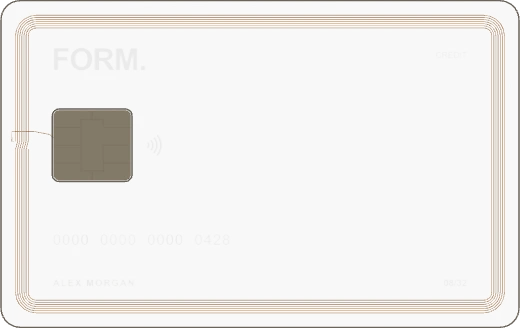
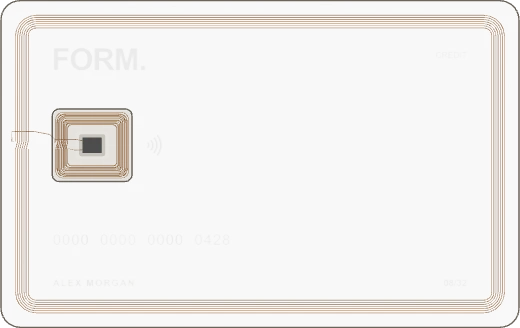
ui: trim reading holds and clarify the card x-ray

Changed region(s): [[0.0923, 0.3354, 0.2769, 0.5488]]

diff --git a/src/experience/main.js b/src/experience/main.js
@@ -106,23 +106,20 @@ function paintLetters(time, visual, mouth) {
 }
 
 function paintLabels(pose, opacity) {
-  const { height, gutter, compact } = layout;
+  if (opacity <= .001) {
+    for (const label of labels) label.style.opacity = 0;
+    return [];
+  }
+  const antenna = fromCard(pose, -.017, .0246, .0001);
+  const chip = fromCard(pose, -.02774, .0031, .0001);
   const entries = [
-    {
-      x: compact ? gutter : pose.x - pose.width * .43,
-      y: Math.max(height * .098, pose.y - pose.width * .35 - 30),
-      part: fromCard(pose, -.034, .0215, .0003),
-    },
-    {
-      x: gutter,
-      y: compact ? pose.y + pose.width * .37 : pose.y + pose.width * .013,
-      part: fromCard(pose, -.0277, .0031, .0003),
-    },
+    { x: antenna.x, y: antenna.y - 42, part: antenna },
+    { x: chip.x + clamp(pose.width * .128, 34, 92), y: chip.y - 10, part: chip },
   ];
   return entries.map(({ x, y, part }, i) => {
     labels[i].style.opacity = opacity;
-    labels[i].style.transform = `translate3d(${x}px, ${y}px, 0)`;
-    return { part, tip: { x: i && !compact ? x + 40 : x + 4, y: i ? y - 4 : y + 23 } };
+    labels[i].style.transform = `translate3d(${x}px, ${y}px, 0)${i === 0 ? ' translateX(-50%)' : ''}`;
+    return { part, tip: i === 0 ? { x, y: y + 24 } : { x: x - 8, y: part.y } };
   });
 }
 
@@ -134,6 +131,7 @@ function paint(time, pose, visual) {
   panels['cinema-title'].style.scale = .94 + visual.cinema * .06;
   panels.question.style.opacity = visual.question;
   panels.question.style.translate = `0 ${(1 - visual.question) * 14}px`;
+  stage.classList.toggle('show-callouts', visual.callouts > .001);
   panels.instruction.style.opacity = visual.instruction;
   reader.style.opacity = visual.reader;
   scrollGuide.style.opacity = 1 - ease(5.14, 5.62, time);

diff --git a/src/experience/card-scene.js b/src/experience/card-scene.js
@@ -3,13 +3,13 @@ import { GLTFLoader } from 'three/addons/loaders/GLTFLoader.js';
 import { RoomEnvironment } from 'three/addons/environments/RoomEnvironment.js';
 
 const cardURL = new URL('../assets/models/contactless-card.glb', import.meta.url);
-const brass = new THREE.Color('#735633');
+const brass = new THREE.Color('#624725');
 
 function getShellLayers(card) {
   const fades = [
     ['front-protective-overlay', .07], ['front-printed-pvc', .065],
     ['rear-protective-overlay', .24], ['rear-printed-pvc', .095],
-    ['contact-plate', .07], ['inlay-carrier', .35],
+    ['contact-plate', .045], ['module-substrate', .13], ['die-underfill', .24], ['inlay-carrier', .35],
     ['inlay-pocket-collar', .32], ['die-pocket-floor', .32],
   ];
   const layers = [];
@@ -158,7 +158,7 @@ export async function createCardScene(canvas) {
       for (const { material, original, metalness } of copper) {
         material.color.copy(original).lerp(brass, glass * .83);
         material.emissive.copy(brass);
-        material.emissiveIntensity = glass * .065;
+        material.emissiveIntensity = glass * .04;
         material.metalness = metalness * (1 - glass * .71);
       }
       edge.visible = glass > 0;

diff --git a/src/experience/style.css b/src/experience/style.css
@@ -185,6 +185,7 @@ button { font: inherit; }
 }
 
 .signal { z-index: 2; }
+.show-callouts .signal { z-index: 4; }
 .reader { z-index: 2; opacity: 0; }
 .reader img { display: block; width: 100%; height: auto; }
 .enhanced .card-poster {
@@ -204,8 +205,8 @@ button { font: inherit; }
   left: 0;
   top: 0;
   color: var(--ink);
-  font-size: clamp(.875rem, 1.3vw, 1.1rem);
-  font-weight: 630;
+  font-size: clamp(.9rem, 1.45vw, 1.12rem);
+  font-weight: 650;
   white-space: nowrap;
   opacity: 0;
 }
@@ -220,6 +221,16 @@ button { font: inherit; }
   letter-spacing: -.033em;
   text-wrap: pretty;
 }
+
+.question span, .question strong { display: block; }
+.question span {
+  margin-bottom: .55em;
+  font-size: max(1rem, .74em);
+  font-weight: 540;
+  letter-spacing: -.015em;
+}
+
+.question strong { font-weight: 720; text-wrap: balance; }
 
 .instruction {
   z-index: 4;

diff --git a/src/experience/timeline.js b/src/experience/timeline.js
@@ -32,11 +32,11 @@ const cardFrames = [
 const scrollFrames = [
   [0, 0], [.57, .41], [.71, .41], [.98, .59], [1.29, .76], [1.60, HERO],
   [1.76, HERO], [2.12, MOUTH_CLOSED], [2.34, MOUTH_CLOSED],
-  [3.01, 1.87], [3.99, 1.87],
-  [4.70, 2.82], [5.96, 2.82],
-  [6.64, 3.60], [7.31, 3.60],
-  [8.02, 4.77], [9.35, 4.77],
-  [10.05, END], [10.41, END],
+  [3.01, 1.87], [3.85, 1.87],
+  [4.56, 2.82], [5.66, 2.82],
+  [6.34, 3.60], [7.01, 3.60],
+  [7.72, 4.77], [8.88, 4.77],
+  [9.58, END], [9.94, END],
 ];
 export const SCROLL_SCREENS = scrollFrames.at(-1)[0];
 

diff --git a/index.html b/index.html
@@ -50,7 +50,7 @@
         <span class="antenna-label">Antenna</span>
         <span class="chip-label">Chip</span>
       </div>
-      <p class="question">The card aint having any battery init how the hell is it supposed to exchange data?</p>
+      <p class="question"><span>The card aint having any battery init</span> <strong>how the hell is it supposed to exchange data?</strong></p>
       <div class="instruction">
         <h2>Here's how:</h2>
         <p id="drag-instruction">Drag the card to the reader</p>

diff --git a/src/experience/signals.js b/src/experience/signals.js
@@ -95,10 +95,10 @@ function radio(ctx, layout, card, opacity, clock) {
 function internals(ctx, opacity, labels) {
   if (opacity <= .001) return;
   ctx.strokeStyle = ctx.fillStyle = BRASS;
-  ctx.lineWidth = 1.2;
-  ctx.globalAlpha = opacity * .81;
+  ctx.lineWidth = 1.3;
+  ctx.globalAlpha = opacity * .9;
   for (const { part, tip } of labels) {
-    stroke(ctx, [part, { x: tip.x, y: part.y }, tip]);
+    stroke(ctx, [part, tip]);
     dot(ctx, part.x, part.y, 3.1);
   }
 }

diff --git a/EXPLAINED.md b/EXPLAINED.md
@@ -43,9 +43,9 @@ Written by OpenAI Codex for the project team · 2026-11-22
 
 **How it works.**
 
-- `timeline.js` maps scroll distance to a single playhead. The card starts at center, slides right, curls open, releases RFID, and closes before the acronym unfolds. Reading poses hold while the user scrolls through them. The transitions between those poses use shorter stretches of scroll.
+- `timeline.js` maps scroll distance to a single playhead. The card starts at center, slides right, curls open, releases RFID, and closes before the acronym unfolds. The acronym, waveform explanation, and X-ray hold for just over or just under one viewport of scroll.
 - `main.js` moves the same four HTML letters out of the mouth, into the full-name layout, and back into the explanation heading. It also handles pointer capture, dropping the card, retrying, and reduced motion.
-- `card-scene.js` loads `contactless-card.glb` once. The front two layers pivot around the right edge, and a vertex shader curls the left edge. The X-ray fades the original shell to reveal the original antenna and chip.
+- `card-scene.js` loads `contactless-card.glb` once. The front two layers pivot around the right edge, and a vertex shader curls the left edge. The X-ray fades the shell and the layers above the silicon die. The label lines point to the exposed die and antenna trace. The battery prompt separates its setup from the question for easier reading.
 - `signals.js` draws the illustrative waveform and the reader's brass rings. The rings pulse as soon as the reader appears and brighten when the card approaches or is detected. Reduced motion shows the rings as a still image. The moving RFID letters and the “How it work” title use the local Bodoni Moda display font. The title uses regular weight throughout.
 - The two `credit-card-*.webp` images are renders of the project's GLB by Codex. They keep the card and its internals visible when WebGL is unavailable.
 
